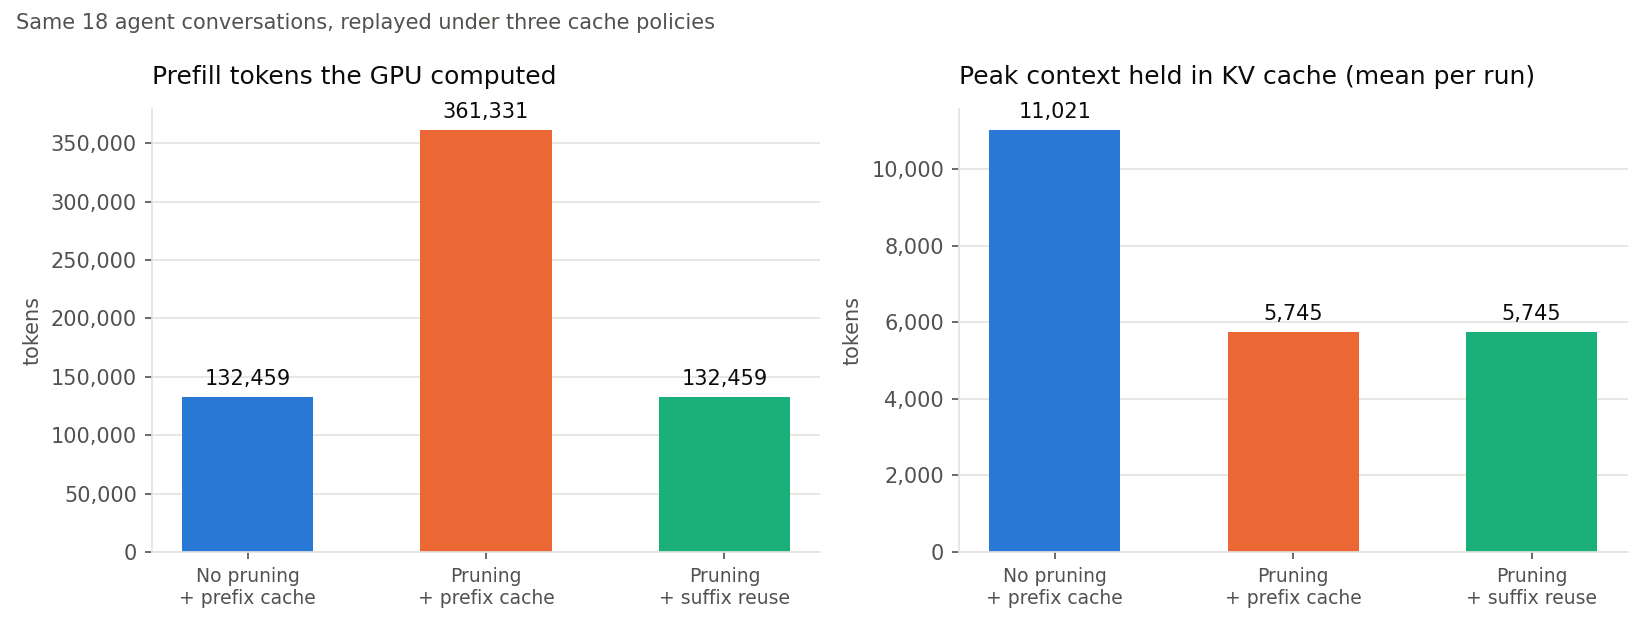
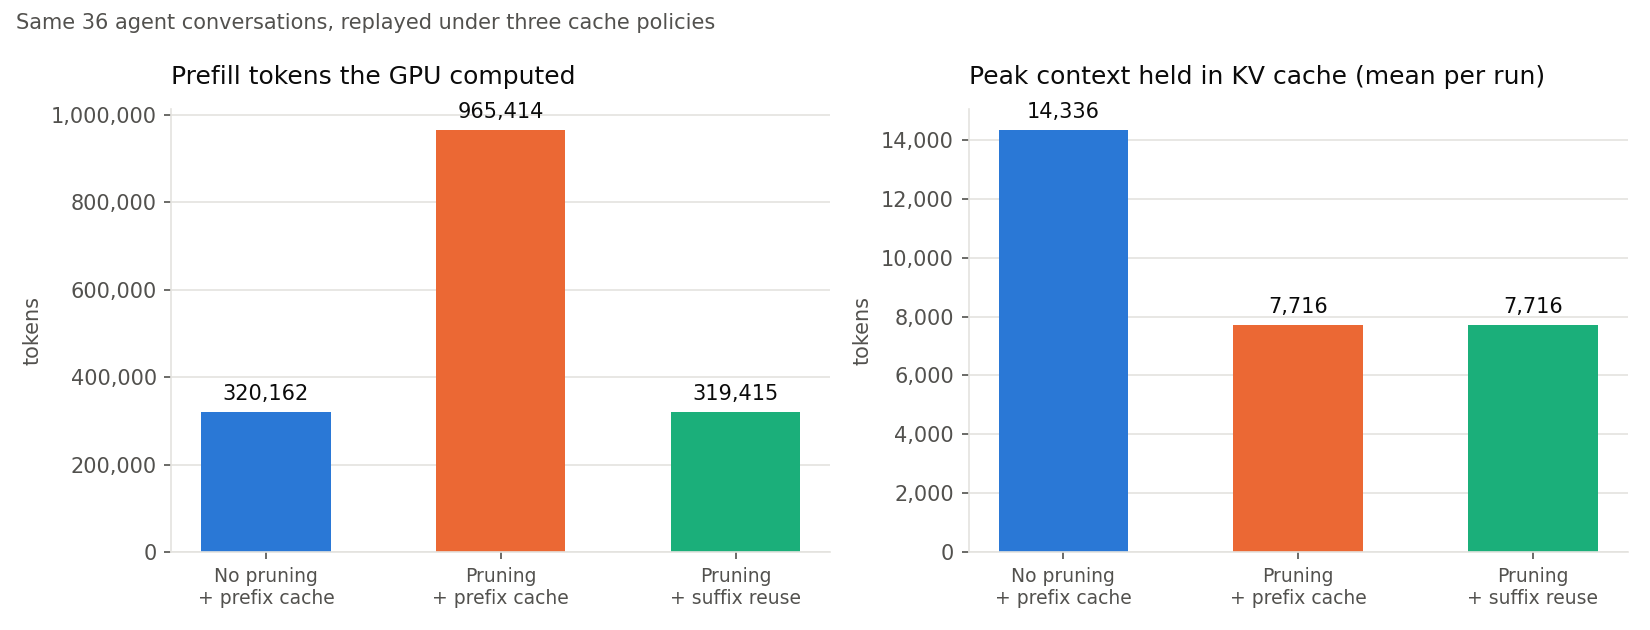
v2 results: 36-conversation cost replay (3.02x vs 1.00x), drift stats, v2 report and charts

diff --git a/experiments/replay_cost.py b/experiments/replay_cost.py
@@ -6,7 +6,7 @@ under each policy, with exactly the engine's rules (same pruning, rendering, and
 so the only thing that changes is the policy. No GPU: this is token accounting with the
 tokenizer. Prefill seconds are estimated from the T4 throughput measured in the traces.
 
-Usage: python -m experiments.replay_cost --tokenizer models/Qwen3-4B-tok results/ docs/
+Usage: python -m experiments.replay_cost --tokenizer models/Qwen3-4B-tok --out docs/ runs/full/results runs/v2/results
 """
 import argparse
 import json
@@ -50,19 +50,20 @@ def prefill_rate(traces):
 def main():
     p = argparse.ArgumentParser()
     p.add_argument("--tokenizer", required=True)
-    p.add_argument("results")
-    p.add_argument("docs")
+    p.add_argument("--out", required=True)
+    p.add_argument("results", nargs="+", help="one or more benchmark results folders")
     a = p.parse_args()
-    res, docs = pathlib.Path(a.results), pathlib.Path(a.docs)
+    docs = pathlib.Path(a.out)
     tok = AutoTokenizer.from_pretrained(a.tokenizer)
-    traces = [json.loads(l) for f in sorted((res / "traces").glob("*.jsonl")) for l in open(f, encoding="utf-8")]
+    traces, rows = [], []
+    for res in map(pathlib.Path, a.results):
+        traces += [json.loads(l) for f in sorted((res / "traces").glob("*.jsonl")) for l in open(f, encoding="utf-8")]
+        for f in sorted((res / "dumps").glob("*.jsonl")):
+            steps = [json.loads(l) for l in open(f, encoding="utf-8")]
+            for name, (k, suffix) in POLICIES.items():
+                rows.append({"run": f"{res.parent.name}/{f.stem}", "policy": name, **replay(tok, steps, k, suffix)})
+                print(rows[-1], flush=True)
     rate, overhead = prefill_rate(traces)
-    rows = []
-    for f in sorted((res / "dumps").glob("*.jsonl")):
-        steps = [json.loads(l) for l in open(f, encoding="utf-8")]
-        for name, (k, suffix) in POLICIES.items():
-            rows.append({"run": f.stem, "policy": name, **replay(tok, steps, k, suffix)})
-            print(rows[-1], flush=True)
     (docs / "replay_cost.jsonl").write_text("\n".join(json.dumps(r) for r in rows) + "\n", encoding="utf-8")
     base = {r["run"]: r for r in rows if r["policy"] == next(iter(POLICIES))}
     lines = [f"Same {len(base)} recorded conversations ({sum(b['steps'] for b in base.values()):,} agent steps), "
@@ -100,7 +101,7 @@ def chart(out, rows):
                         xytext=(0, 4), textcoords="offset points", color=INK, fontsize=10)
         style(ax, title, "tokens")
         ax.tick_params(axis="x", labelsize=9)
-    fig.suptitle("Same 18 agent conversations, replayed under three cache policies", x=0.01, ha="left",
+    fig.suptitle(f"Same {len(rows) // len(POLICIES)} agent conversations, replayed under three cache policies", x=0.01, ha="left",
                  color=MUTED, fontsize=10)
     fig.tight_layout()
     fig.savefig(out)

diff --git a/docs/results.md b/docs/results.md
@@ -1,0 +1,29 @@
+## Agent benchmark (totals)
+
+| Mode | Tasks passed | Agent steps | Tokens in prompts | Tokens computed (prefill) | Reused from cache | Prefill time (s) | Decode time (s) | Wall time (s) | Peak context |
+|---|---|---|---|---|---|---|---|---|---|
+| No pruning | 2/6 | 290 | 3,046,827 | 37,126 | 99% | 70 | 2536 | 2637 | 25,952 |
+| Pruning + prefix cache | 2/6 | 457 | 3,249,260 | 250,479 | 92% | 264 | 3602 | 3974 | 14,116 |
+| Pruning + suffix reuse | 2/6 | 428 | 3,140,243 | 69,031 | 98% | 107 | 3756 | 3936 | 15,134 |
+
+## Per task
+
+| Task | No pruning | Pruning + prefix cache | Pruning + suffix reuse |
+|---|---|---|---|
+| csvpipe | fail (timeout), 150 steps, 15,661 computed, looped last 67 | fail (timeout), 95 steps, 44,422 computed | fail (timeout), 109 steps, 11,277 computed |
+| inventory | pass, 13 steps, 3,425 computed | fail (timeout), 116 steps, 72,873 computed | pass, 27 steps, 6,499 computed |
+| ledger | fail, 28 steps, 4,935 computed | pass, 34 steps, 19,470 computed | fail (timeout), 122 steps, 18,512 computed |
+| life | fail, 12 steps, 2,722 computed | pass, 18 steps, 8,729 computed | pass, 18 steps, 4,009 computed |
+| schedule | pass, 9 steps, 2,568 computed | fail (timeout), 89 steps, 59,396 computed | fail (timeout), 47 steps, 8,717 computed |
+| textstats | fail (timeout), 78 steps, 7,815 computed | fail (timeout), 105 steps, 45,589 computed | fail (timeout), 105 steps, 20,017 computed |
+
+## What the reused suffix remembers
+
+| Context after a prune | Mean KL to unpruned model | Median KL | Top-1 agreement with unpruned |
+|---|---|---|---|
+| Recomputed from scratch (prefix cache) | 0.3380 | 0.1902 | 90.0% |
+| Spliced cache (suffix reuse) | 0.2943 | 0.1710 | 90.9% |
+
+Suffix reuse was closer to the unpruned model on 50/75 pruned steps (3,950 reply tokens scored, 6 runs, 0 repeated loop steps removed).
+
+Paired difference KL(fresh) - KL(surgery): mean +0.0437, 95% bootstrap CI [+0.0025, +0.0915]; sign test 50/75, p = 0.00523.

diff --git a/docs/replay_cost.md b/docs/replay_cost.md
@@ -1,7 +1,7 @@
-Same 18 recorded conversations (664 agent steps), replayed under each policy. Prefill time estimated at the measured T4 rate of 1,203 tokens/s (+170 ms per step).
+Same 36 recorded conversations (1,847 agent steps), replayed under each policy. Prefill time estimated at the measured T4 rate of 1,281 tokens/s (+158 ms per step).
 
 | Policy | Tokens in prompts | Tokens computed (prefill) | vs. no pruning | Est. prefill time | Mean peak context |
 |---|---|---|---|---|---|
-| No pruning + prefix cache | 11,774,948 | 132,459 | 1.00x | 223 s | 11,021 |
-| Pruning (k=1) + prefix cache | 5,447,634 | 361,331 | 2.73x | 414 s | 5,745 |
-| Pruning (k=1) + suffix reuse | 5,447,634 | 132,459 | 1.00x | 223 s | 5,745 |
+| No pruning + prefix cache | 27,067,008 | 320,162 | 1.00x | 543 s | 14,336 |
+| Pruning (k=1) + prefix cache | 13,769,130 | 965,414 | 3.02x | 1,046 s | 7,716 |
+| Pruning (k=1) + suffix reuse | 13,769,130 | 319,415 | 1.00x | 542 s | 7,716 |
